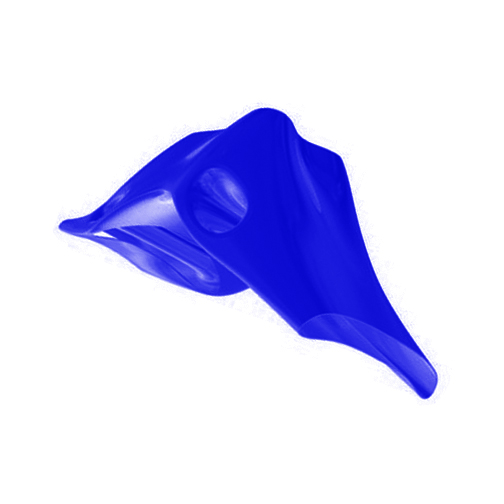
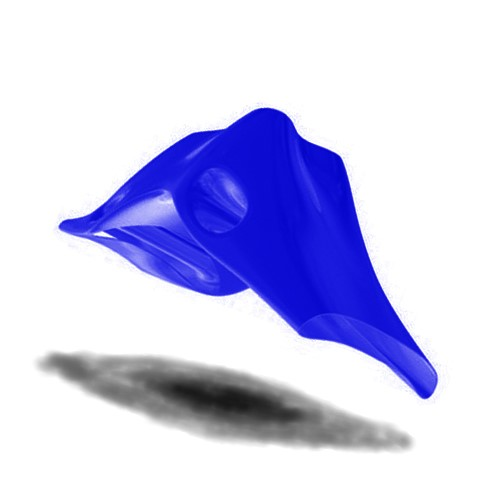
Finished the second set of design changes specified by Marieke and made some minor changes of my own - Changed silhouettes to once with color and speech bubble - Added both participants silhouettes to each participants screen - Participants relative perspective is now randomized (should consider if 
To do
- Make object shadows look nicer (They were done quickly)

Changed region(s): [[0.0595, 0.6845, 0.8333, 0.9226], [0.6548, 0.2976, 0.6845, 0.3274]]

diff --git a/FruitGame/MainPage.html b/FruitGame/MainPage.html
@@ -1,6 +1,11 @@
 {{ block title }}
-
-    Welcome! You are the {{ player.role }}
+    {{ if player.role == Constants.director_role }}
+    <p style="line-height:1; margin:0px; margin-left:10px"> Welcome! You are the<span style="line-height:1; margin:0px; margin-left:10px; color: green">{{ player.role }} </span>
+         </p>
+    {{ else }}
+    <p style="line-height:1; margin:0px; margin-left:10px"> Welcome! You are the<span style="line-height:1; margin:0px; margin-left:10px; color: blue">{{ player.role }} </span>
+         </p>
+    {{ endif }}
 
     <!-- To give some space for the game box and chat box -->
     <div style=" height: 40px;">
@@ -12,25 +17,13 @@
 
     <!-- Game box -->
     {{ if player.group.condition3d }}
-        {{ if player.group.silhouette_corner }}
-            <div style="position: absolute; top: 90px;  left: 130px; transform: rotateX(30deg) rotateY(-15deg);" >
-                <p style="line-height:1; margin:0px; margin-left:10px"> {{ if player.role == Constants.director_role }} Matcher {{ else }} Director {{ endif }}</p>
-                <img src="{{ static 'FruitGame/man.png' }}"/>
-            </div>
-        {{ else }}
-            <div style="position: absolute; top: 155px;  left: -30px; transform: rotateY(60deg) rotateZ(-20deg);" >
-                <p style="line-height:1; margin:0px; margin-left:10px"> {{ if player.role == Constants.director_role }} Matcher {{ else }} Director {{ endif }}</p>
-                <img src="{{ static 'FruitGame/man.png' }}"/>
-            </div>
-        {{ endif }}
-    {{ endif }}
-    {{ if player.group.condition3d }}
-    <div style="line-height:1;  width: 49%; height: 400px; margin-right: 1%; float:left; transform: rotateX(60deg) rotateZ(30deg);">
+    <div style="line-height:1;  width: 49%; height: 400px; margin-right: 11%; float:left; transform: rotateX(65deg) rotateZ(45deg);">
     {{ else }}
     <div style="line-height:1;  width: 49%; height: 400px; margin-right: 1%; float:left;">
     {{ endif }}
+        <!-- Grid -->
         <div style="width: 50%; height: 200px; float:left; border:1px; border-style: none solid solid none">
-            <div style=" height: 40px;">
+            {# <div style=" height: 40px;">
                 <!-- Old code of good/bad targets -->
                 <!--{{ if player.role == Constants.director_role }}-->
                 <!--{{ if player.group.imgavalue == True }} <p style="text-align: center; font-size: 20px; color: green"> <br><br><br>GOOD </p>-->
@@ -42,32 +35,32 @@
                 <div style="margin-left: 40px">
                 {{ if player.role == Constants.director_role }}
                     {{ if player.group.imgavalue == True }}
-                        <img src="{{ static image_patha }}" width="124px" height="124px" style="border: 4px solid green" }/>
+                        <img src="{{ static image_patha }}" width="124px" height="124px" style="border: 4px solid green"/>
                     {{ else }}
-                        <img src="{{ static image_patha }}" width="120px" height="120px" }/>
+                        <img src="{{ static image_patha }}" width="120px" height="120px"/>
                     {{ endif }}
                 {{ else }}
                     <input type="image" src="{{ static image_patha }}" class="buttontrans" width="120px" height="120px" onclick="liveSend('select1')">
                 {{ endif }}
                 </div>
-            </div>
+            </div> #}
         </div>
         <div style="width: 50%; height: 200px; float:right; border:1px; border-style: none none solid solid">
-            <div style=" height: 40px;">
+            {#<div style=" height: 40px;">
             </div>
             <div class="container">
                 <div style="margin-left: 40px">
                 {{ if player.role == Constants.director_role }}
                     {{ if player.group.imgbvalue == True }}
-                        <img src="{{ static image_pathb }}" width="124px" height="124px" style="border: 4px solid green" }/>
+                        <img src="{{ static image_pathb }}" width="124px" height="124px" style="border: 4px solid green"/>
                     {{ else }}
-                        <img src="{{ static image_pathb }}" width="120px" height="120px" }/>
+                        <img src="{{ static image_pathb }}" width="120px" height="120px"/>
                     {{ endif }}
                 {{ else }}
                     <input type="image" src="{{ static image_pathb }}" class="buttontrans" width="120px" height="120px" onclick="liveSend('select2')">
                 {{ endif }}
                 </div>
-            </div>
+            </div>#}
         </div>
         <div style="width: 50%; height: 200px; float:left; border:1px; border-style: solid solid  none none">
             {# <div style=" height: 40px;">
@@ -76,9 +69,9 @@
                 <div style="margin-left: 40px">
                 {{ if player.role == Constants.director_role }}
                     {{ if player.group.imgcvalue == True }}
-                        <img src="{{ static image_pathc }}" width="124px" height="124px" style="border: 4px solid green" }/>
+                        <img src="{{ static image_pathc }}" width="124px" height="124px" style="border: 4px solid green"/>
                     {{ else }}
-                        <img src="{{ static image_pathc }}" width="120px" height="120px" }/>
+                        <img src="{{ static image_pathc }}" width="120px" height="120px"/>
                     {{ endif }}
                 {{ else }}
                     <input type="image" src="{{ static image_pathc }}" class="buttontrans" width="120px" height="120px" onclick="liveSend('select3')">
@@ -87,33 +80,175 @@
             </div> #}
         </div>
         <div style="width: 50%; height: 200px; float:right; border:1px; border-style: solid none  none solid">
-            <div style=" height: 40px;">
+            {#<div style=" height: 40px;">
             </div>
             <div class="container">
                 <div style="margin-left: 40px">
                 {{ if player.role == Constants.director_role }}
                     {{ if player.group.imgcvalue == True }}
-                        <img src="{{ static image_pathc }}" width="124px" height="124px" style="border: 4px solid green" }/>
+                        <img src="{{ static image_pathc }}" width="124px" height="124px" style="border: 4px solid green"/>
                     {{ else }}
-                        <img src="{{ static image_pathc }}" width="120px" height="120px" }/>
+                        <img src="{{ static image_pathc }}" width="120px" height="120px"/>
                     {{ endif }}
                 {{ else }}
                     <input type="image" src="{{ static image_pathc }}" class="buttontrans" width="120px" height="120px" onclick="liveSend('select3')">
                 {{ endif }}
                     </div>
-            </div>
+            </div>#}
         </div>
     </div>
+    {{ if player.group.condition3d }}
+    <!-- Placing objects-->
+        {{ if player.role == Constants.director_role }}
+                {{ if player.group.imgavalue == True }}
+                    <div style="position: absolute; top: 217px;  left: 197px">
+                        <img src="{{ static image_patha }}" width="86px" height="86px" style="border: 3px solid green"/>
+                    </div>
+                {{ else }}
+                    <div style="position: absolute; top: 220px;  left: 200px">
+                        <img src="{{ static image_patha }}" width="80px" height="80px"/>
+                    </div>
+                {{ endif }}
+
+                {{ if player.group.imgbvalue == True }}
+                    <div style="position: absolute; top: 287px;  left: 347px">
+                        <img src="{{ static image_pathb }}" width="86px" height="86px" style="border: 3px solid green"/>
+                        </div>
+                {{ else }}
+                    <div style="position: absolute; top: 290px;  left: 350px">
+                         <img src="{{ static image_pathb }}" width="80px" height="80px"/>
+                    </div>
+                {{ endif }}
+
+
+                {{ if player.group.imgcvalue == True }}
+                    <div style="position: absolute; top: 357px;  left: 197px">
+                        <img src="{{ static image_pathc }}" width="86px" height="86px" style="border: 3px solid green"/>
+                    </div>
+                {{ else }}
+                    <div style="position: absolute; top: 360px;  left: 200px">
+                        <img src="{{ static image_pathc }}" width="80px" height="80px"/>
+                    </div>
+                {{ endif }}
+        {{ else }}
+            {{ if player.group.matcherpos == 1}}
+                <div style="position: absolute; top: 360px;  left: 200px">
+                    <input type="image" src="{{ static image_patha }}" class="buttontrans" width="80px" height="80px" onclick="liveSend('select1')">
+                </div>
+                <div style="position: absolute; top: 290px;  left: 40px">
+                    <input type="image" src="{{ static image_pathb }}" class="buttontrans" width="80px" height="80px" onclick="liveSend('select2')">
+                </div>
+                <div style="position: absolute; top: 220px;  left: 200px">
+                    <input type="image" src="{{ static image_pathc }}" class="buttontrans" width="80px" height="80px" onclick="liveSend('select3')">
+                </div>
+            {{ endif }}
+
+            {{ if player.group.matcherpos == 2}}
+                <div style="position: absolute; top: 290px;  left: 350px">
+                    <input type="image" src="{{ static image_patha }}" class="buttontrans" width="80px" height="80px" onclick="liveSend('select1')">
+                </div>
+                <div style="position: absolute; top: 360px;  left: 200px">
+                    <input type="image" src="{{ static image_pathb }}" class="buttontrans" width="80px" height="80px" onclick="liveSend('select2')">
+                </div>
+                <div style="position: absolute; top: 290px;  left: 40px">
+                    <input type="image" src="{{ static image_pathc }}" class="buttontrans" width="80px" height="80px" onclick="liveSend('select3')">
+                </div>
+            {{ endif }}
+
+            {{ if player.group.matcherpos == 3}}
+                <div style="position: absolute; top: 220px;  left: 200px">
+                    <input type="image" src="{{ static image_patha }}" class="buttontrans" width="80px" height="80px" onclick="liveSend('select1')">
+                </div>
+                <div style="position: absolute; top: 290px;  left: 350px">
+                    <input type="image" src="{{ static image_pathb }}" class="buttontrans" width="80px" height="80px" onclick="liveSend('select2')">
+                </div>
+                <div style="position: absolute; top: 360px;  left: 200px">
+                    <input type="image" src="{{ static image_pathc }}" class="buttontrans" width="80px" height="80px" onclick="liveSend('select3')">
+                </div>
+            {{ endif }}
+
+            {{ if player.group.matcherpos == 4}}
+                <div style="position: absolute; top: 290px;  left: 40px">
+                    <input type="image" src="{{ static image_patha }}" class="buttontrans" width="80px" height="80px" onclick="liveSend('select1')">
+                </div>
+                <div style="position: absolute; top: 220px;  left: 200px">
+                    <input type="image" src="{{ static image_pathb }}" class="buttontrans" width="80px" height="80px" onclick="liveSend('select2')">
+                </div>
+                <div style="position: absolute; top: 290px;  left: 350px">
+                    <input type="image" src="{{ static image_pathc }}" class="buttontrans" width="80px" height="80px" onclick="liveSend('select3')">
+                </div>
+            {{ endif }}
+        {{ endif }}
+    <!-- Add silhouette -->
+        {{ if player.group.silhouette_corner }}
+            {{ if player.role == Constants.director_role }}
+                <div style="position: absolute; top: 450px;  left: 200px" >
+                    <img src="{{ static 'FruitGame/Director1.jpg' }}" width="60px" height="110px"/>
+                </div>
+                {{ if player.group.matcherpos == 1}}
+                    <div style="position: absolute; top: 130px;  left: 200px" >
+                        <img src="{{ static 'FruitGame/Matcher1.jpg' }}" width="50px" height="80px"/>
+                    </div>
+                {{ endif }}
+                {{ if player.group.matcherpos == 2}}
+                    <div style="position: absolute; top: 260px;  left: 460px" >
+                        <img src="{{ static 'FruitGame/Matcher1.jpg' }}" width="50px" height="80px"/>
+                    </div>
+                {{ endif }}
+                {{ if player.group.matcherpos == 3}}
+                    <div style="position: absolute; top: 482px;  left: 270px" >
+                        <img src="{{ static 'FruitGame/Matcher1.jpg' }}" width="50px" height="80px"/>
+                    </div>
+                {{ endif }}
+                {{ if player.group.matcherpos == 4}}
+                    <div style="position: absolute; top: 260px;  left: -50px" >
+                        <img src="{{ static 'FruitGame/Matcher1.jpg' }}" width="50px" height="80px"/>
+                    </div>
+                {{ endif }}
+            {{ else }}
+                <div style="position: absolute; top: 482px;  left: 270px" >
+                    <img src="{{ static 'FruitGame/Matcher1.jpg' }}" width="50px" height="80px"/>
+                </div>
+                {{ if player.group.matcherpos == 1}}
+                    <div style="position: absolute; top: 110px;  left: 200px" >
+                        <img src="{{ static 'FruitGame/Director1.jpg' }}" width="60px" height="110px"/>
+                    </div>
+                {{ endif }}
+                {{ if player.group.matcherpos == 2}}
+                    <div style="position: absolute; top: 260px;  left: -50px" >
+                        <img src="{{ static 'FruitGame/Director1.jpg' }}" width="60px" height="110px"/>
+                    </div>
+                {{ endif }}
+                {{ if player.group.matcherpos == 3}}
+                    <div style="position: absolute; top: 450px;  left: 200px" >
+                        <img src="{{ static 'FruitGame/Director1.jpg' }}" width="60px" height="110px"/>
+                    </div>
+                {{ endif }}
+                {{ if player.group.matcherpos == 4}}
+                    <div style="position: absolute; top: 260px;  left: 460px" >
+                        <img src="{{ static 'FruitGame/Director1.jpg' }}" width="60px" height="110px"/>
+                    </div>
+                {{ endif }}
+            {{ endif }}
+        {{ else }}
+            <div style="position: absolute; top: 155px;  left: -30px; transform: rotateY(60deg) rotateZ(-20deg);" >
+                <!-- <p style="line-height:1; margin:0px; margin-left:10px"> {{ if player.role == Constants.director_role }} Matcher {{ else }} Director {{ endif }}</p> -->
+                <img src="{{ static 'FruitGame/Matcher1.jpg' }}" width="40px" height="40px"/>
+                <img src="{{ static 'FruitGame/Director1.jpg' }}" width="40px" height="40px"/>
+            </div>
+        {{ endif }}
+    {{ endif }}
+
 
     <!-- Chat box -->
-    <div style="line-height:1; width: 50%; height: 400px; float:right;">
+    <div style="line-height:1; width: 40%; height: 400px; float:right;">
         <div id="div" style="height: 80%; border: 4px groove; background-color:#e8e7e3; overflow:auto;">
             <h4 style="border:1px; border-style: none none groove none;"> Communications </h4>
             <div id="div1" style="height: 80%; background-color:#e8e7e3">
             </div>
         </div>
-        <div id="div3">
         {{ if player.role == Constants.director_role }}
+        <div id="div3">
             <div id="div2" style="height: 10%;  border:1px; border: 4px groove; background-color:#e8e7e3; overflow:auto ;" >
             </div>
             <button type="button" class="button button1" onclick="liveSend('wa')" >wa</button>
@@ -123,6 +258,10 @@
         </div>
         {{ endif }}
     </div>
+
+    <!-- To give some space for the game box and chat box -->
+    <div style="height: 400px;">
+        </div>
 
 <style>
 .buttontrans {
@@ -181,6 +320,19 @@
   -ms-transform: translate(-50%, -50%);
   transform: translate(-50%, -50%);
 }
+
+.otree-timer {
+    color:black;
+    background-color:#e8e7e3;
+    border-color:black;
+    position: absolute;
+    top: 60px;
+    left: 620px;
+    width: 300px;
+    height: 60px;
+}
+
+
 </style>
 
 <script>

diff --git a/FruitGame/Results.html b/FruitGame/Results.html
@@ -1,8 +1,15 @@
 {{ block title }}
-    {{ if player.group.imgselectedcorrect }}
-    Matcher selected the correct object
+    {{ if player.group.imgselected == 0 }}
+        <p style="line-height:1; margin:0px; margin-left:10px">Matcher<span style="line-height:1; margin:0px; margin-left:10px; font-weight: bold; text-decoration: underline;">did not select</span><span style="line-height:1; margin:0px; margin-left:10px;">an object in time</span>
+        </p>
     {{ else }}
-    Matcher selected the wrong object
+        {{ if player.group.imgselectedcorrect }}
+            <p style="line-height:1; margin:0px; margin-left:10px">Matcher selected the<span style="line-height:1; margin:0px; margin-left:10px; font-weight: bold; text-decoration: underline;">correct</span><span style="line-height:1; margin:0px; margin-left:10px;">object</span>
+            </p>
+        {{ else }}
+            <p style="line-height:1; margin:0px; margin-left:10px">Matcher selected the<span style="line-height:1; margin:0px; margin-left:10px; font-weight: bold; text-decoration: underline;">wrong</span><span style="line-height:1; margin:0px; margin-left:10px;">object</span>
+            </p>
+        {{ endif }}
     {{ endif }}
 {{ endblock }}
 

diff --git a/FruitGame/__init__.py b/FruitGame/__init__.py
@@ -38,6 +38,8 @@ class Group(BaseGroup):
     imgcvalue = models.BooleanField()
     #imgdvalue = models.BooleanField()
 
+    matcherpos = models.IntegerField()
+
     condition3d = models.BooleanField()
     silhouette_corner = models.BooleanField()
 
@@ -66,7 +68,7 @@ def creating_session(subsession):
 
     # setting values for all the groups
     for group in subsession.get_groups():
-        # Select the placement of objects (true random)
+        # Select the placement of objects ("true" random)
         #imgorder = random.sample([1, 2, 3, 4], k=4)
         #group.imga = imgorder[0]
         #group.imgb = imgorder[1]
@@ -88,12 +90,24 @@ def creating_session(subsession):
         group.imgbvalue = imgvalue[1]
         group.imgcvalue = imgvalue[2]
         #group.imgdvalue = imgvalue[3]
+        # potion relative to director. Clockwise starting with 1 = top
+        group.matcherpos = random.choice([1, 2, 3, 4])
         group.condition3d = subsession.session.config['condition3d']
         group.silhouette_corner = subsession.session.config['silhouette_corner']
 
 
 # PAGES
 class MainPage(Page):
+    # Amount of time before timeout in seconds
+    timeout_seconds = 120
+
+    # Decide what happens if timeout
+    @staticmethod
+    def before_next_page(player, timeout_happened):
+        if timeout_happened:
+            player.group.imgselected = 0
+            player.group.imgselectedcorrect = False
+
     # For finding the image path for each image placement
     @staticmethod
     def vars_for_template(player):
